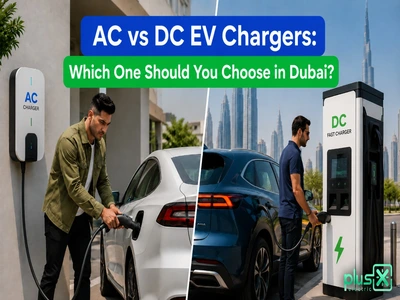
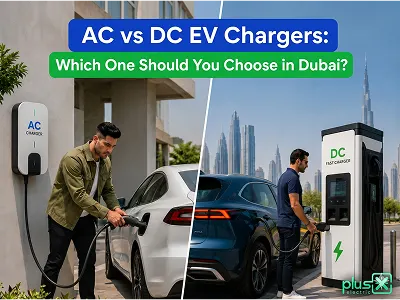
Add new blog

diff --git a/src/data/blogsList/nearest-station.js b/src/data/blogsList/nearest-station.js
@@ -1,0 +1,318 @@
+import portableDesktop  from "@/assets/images/homepage/blogs/banners/plusx_electric_portable_pod_desktop_banner.webp";
+import portableMobile   from "@/assets/images/homepage/blogs/banners/plusx_electric_portable_pod_mobile_banner.webp";
+import blogImage        from "@/assets/images/homepage/blogs/plusxelectric_ev_doorstep.webp";
+
+const BASE_URL              = process.env.NEXT_PUBLIC_BASE_URL;
+export const nearestStation = [
+  {
+    type: "paragraph",
+    text: `Most EV drivers don’t struggle to find a charging station. They struggle to find one that is actually available when they reach.`,
+  },
+  {
+    type: "paragraph",
+    text: `It’s common to head towards a charger that looks nearby on the map, only to find it occupied, slow, or not suitable for your vehicle.`,
+  },
+  {
+    type: "paragraph",
+    text: `The challenge is not location. It is timing, availability, and knowing what to check before you get there.`,
+  },
+  {
+    type: "heading",
+    level: 2,
+    text: "Why the Nearest Charger Is Not Always The Best Option?"
+  },
+  {
+    type: "paragraph",
+    text: "The closest charging station may seem like a practical option. You may drive to the nearby charger only to find it is busy, slow or incompatible with your vehicle."
+  },
+  {
+    type: "paragraph",
+    text: `Another factor is the waiting time in busy areas or during peak hours. You will find that a charger available a little farther away has better speed, which can save you a lot of time.`
+  },
+  {
+    type: "paragraph",
+    text: `So, searching for the <a href="/public-ev-charging-stations" target="_blank">nearest EV charging station in Dubai</a> may not solve your problem.`
+  },
+  {
+    type: "heading",
+    level: 2,
+    text: `What to Check Before Heading to a Charging Station?`,
+  },
+  {
+    type: "paragraph",
+    text: "Look for the following details of a charging station before making your way there."
+  },
+  {
+    type: "heading",
+    level: 3,
+    text: `Charger Type (AC or DC)`,
+  },
+  {
+    type: "paragraph",
+    text: `DC chargers provide faster charging than AC chargers. So, choose the charger based on how much time you can spare for charging.`
+  },
+  {
+    type: "heading",
+    level: 3,
+    text: `Availability`,
+  },
+  {
+    type: "paragraph",
+    text: `A charger is only useful if it is free when you arrive. You can save unwanted trips if you check the live status before going to the charger.`
+  },
+  {
+    type: "heading",
+    level: 3,
+    text: `Charging Capacity`,
+  },
+  {
+    type: "paragraph",
+    text: `Higher capacity chargers are most in demand because they charge your vehicle faster, but they may be limited in number.`
+  },
+  {
+    type: "heading",
+    level: 3,
+    text: `Location Convenience`,
+  },
+  {
+    type: "paragraph",
+    text: `Also, check where the charger is located, whether it is in a mall, office area, or public parking space.`
+  },
+  {
+    type: "heading",
+    level: 3,
+    text: `Pricing`,
+  },
+  {
+    type: "paragraph",
+    text: `The pricing structure is not the same for every charging station.`
+  },
+  {
+    type: "paragraph",
+    text: `You can check these factors to improve your charging experience.`
+  },
+  {
+    type: "heading",
+    level: 2,
+    text: `<a href="/doorstep-ev-charging-in-dubai" target="_blank">Doorstep EV Charging in Dubai: When Is It Better Than Public Charging?</a>`,
+  },
+  {
+    type: "heading",
+    level: 2,
+    text: `Real-World Charging Challenges in Dubai`,
+  },
+  {
+    headerText: `Public charging can be unpredictable in real-world conditions. You may experience the following problems despite the available charger.`,
+    type: "ul",
+    items: [
+      `There can be a waiting period.`,
+      `Charging speed may vary depending on the load.`,
+      `Multiple vehicles may share the same station.`,
+    ],
+    footerText: `These types of conditions are common in Downtown Dubai, Business Bay, and Dubai Marina during peak hours.`
+  },
+  {
+    type: "paragraph",
+    text: `Most drivers end up making multiple stops before they finally find a charger that they can use.`
+  },
+  {
+    type: "heading",
+    level: 2,
+    text: `How the PlusX Electric App Helps`,
+  },
+  {
+    type: "paragraph",
+    text: `The PlusX Electric app is made to make it easier to find the <a href="/public-ev-charging-stations" target="_blank">nearest EV charging station in Dubai</a> with accurate information.`
+  },
+  {
+    headerText: `It can provide you with the following details.`,
+    type: "ul",
+    items: [
+      `View nearby public EV charging stations instantly.`,
+      `See charger type (AC/DC) and capacity.`,
+      `Check real-time availability.`,
+      `Access pricing and operating hours.`,
+      `Get navigation directions to the selected station.`,
+    ],
+    footerText: `You get live updates about the current situations in the charging station so that you can decide whether to go to that station or look for another.`
+  },
+  {
+    type: "heading",
+    level: 2,
+    text: `Public Charging vs Doorstep Backup`
+  },
+  {
+    type: "paragraph",
+    text: "Public charging is an important part of the EV ecosystem, but it may not always be reliable."
+  },
+  {
+    headerText: `<b>Public Charging Works Best When:</b>`,
+    type: "ul",
+    items: [
+      `You are travelling long distances.`,
+      `Chargers are available nearby.`,
+      `You need fast charging.`,
+    ],
+  },
+  {
+    headerText: `<b>Doorstep Charging Works Best When:</b>`,
+    type: "ul",
+    items: [
+      `Public chargers are occupied.`,
+      `You do not want to wait.`,
+      `You need to charge at your location.`,
+      `You want to save time.`,
+    ],
+    footerText: `EV owners in Dubai use both. You can rely on <a href="/mobile-ev-charging-dubai" target="_blank">doorstep charging</a> in case public chargers are not accessible.`
+  },
+  {
+      type: "ctaButton",
+      action: "portablePage",
+      alt: "Doorstep EV Charging in Dubai",
+      desktop: portableDesktop,
+      mobile: portableMobile
+    },
+  {
+    type: "heading",
+    level: 2,
+    text: `Smarter Way to Find EV Chargers in Dubai`
+  },
+  {
+    type: "paragraph",
+    text: "Finding a charger today is less about location and more about access to accurate, real-time information."
+  },
+  {
+    headerText: `Using the right tools allows drivers to:`,
+    type: "ul",
+    items: [
+      `Avoid unnecessary delays.`,
+      `Reduce range anxiety.`,
+      `Improve route planning.`,
+      `Save time and effort.`,
+    ],
+    footerText: `EV owners in Dubai use both. You can rely on doorstep charging in case public chargers are not accessible.`
+  },
+  {
+    type: "heading",
+    level: 2,
+    text: `Conclusion`
+  },
+  {
+    type: "paragraph",
+    text: "As EV adoption increases, simply locating a charger is no longer enough. You will notice that public charging is expanding continuously, but real-time information is necessary to get a seamless experience."
+  },
+  {
+    type: "paragraph",
+    text: "The right tools allow EV drivers to make better decisions. They also avoid common challenges and help you check the conditions before making your way to the station."
+  },
+  {
+    type: "heading",
+    level: 2,
+    text: "FAQ's"
+  },
+  {
+    type: "faq",
+    schema :{
+      "@context"  : "https://schema.org",
+      "@type"     : "FAQPage",
+      mainEntity: [
+        {
+          "@type" : "Question",
+          "name"  : "Which app is best for finding EV chargers in Dubai?",
+          "acceptedAnswer": {
+              "@type" : "Answer",
+              "text"  : "Apps like PlusX Electric provide real-time charger visibility, along with details like availability, charger type, and navigation support in one place."
+          }
+        },
+        {
+          "@type" : "Question",
+          "name"  : "Why do chargers show available but are occupied?",
+          "acceptedAnswer": {
+              "@type" : "Answer",
+              "text"  : "Some platforms do not update in real time, so a charger may be taken by the time you arrive."
+          }
+        },
+        {
+          "@type" : "Question",
+          "name"  : "How do I know if a charger is fast or slow?",
+          "acceptedAnswer": {
+              "@type" : "Answer",
+              "text"  : "Look at the kW rating and check whether it is AC or DC. If you are short of time, DC chargers are faster."
+          }
+        },
+        {
+          "@type" : "Question",
+          "name"  : "Are all EV chargers in Dubai compatible with my car?",
+          "acceptedAnswer": {
+              "@type" : "Answer",
+              "text"  : "Most charging station have Type 2 connectors for AC chargers and CCS2 for DC chargers. However, you can confirm the same from the app before driving there."
+          }
+        },
+        {
+          "@type" : "Question",
+          "name"  : "What should I do if I can’t find a charger nearby?",
+          "acceptedAnswer": {
+              "@type" : "Answer",
+              "text"  : "Find alternative stations from the apps or adjust your route to include available charging points."
+          }
+        }
+      ]
+    }
+  },
+  {
+    type    : "schema",
+    schemas : [
+      {
+        "@context"    : "https://schema.org",
+        "@type"       : "Article",
+
+        "headline"    : "How to Find the Nearest Public EV Charging Station in Dubai",
+        "name"        : "How to Find the Nearest Public EV Charging Station in Dubai | PlusX Electric",
+        "description" : "Looking for the nearest EV charging station in Dubai? Learn how to find available chargers, check compatibility, and avoid delays using smart tools like PlusX Electric.",
+        "image"       : `${BASE_URL}${blogImage.src}`,
+
+        "author"      : {
+          "@type"     : "Person",
+          "name"      : "Admin",
+          "url"       : `${BASE_URL}/`
+        },
+
+        "publisher"   : {
+          "@type"     : "Organization",
+          "name"      : "PlusX Electric",
+          "url"       : `${BASE_URL}/`,
+          "logo"      : {
+            "@type"   : "ImageObject",
+            "url"     : "https://plusxelectric.com/logo-icon.svg"
+          }
+        },
+
+        "datePublished" : "2026-05-21",
+        "dateModified"  : "2026-05-21",
+
+        "mainEntityOfPage" : {
+          "@type"          : "WebPage",
+          "@id"            : `${BASE_URL}/how-to-find-the-nearest-public-ev-charging-station-in-dubai`
+        },
+
+        "inLanguage" : "en",
+
+        "keywords" : [ "nearest EV charging station Dubai", "public EV charger Dubai", "EV charging app Dubai", "Dubai EV charging stations", "find EV charger Dubai", "AC DC charger Dubai", "PlusX Electric app", "EV charging availability Dubai", "doorstep EV charging Dubai", "real time EV charger status" ],
+
+        "articleSection" : [ "Public EV Charging Dubai", "EV Charging Station Finder", "Real-Time Charger Availability", "AC vs DC Charging", "Dubai EV Infrastructure", "Doorstep EV Charging", "EV Charging Challenges", "Smart EV Charging Solutions" ],
+
+        "about" : {
+          "@type" : "Thing",
+          "name"  : "Finding Public EV Charging Stations in Dubai",
+          "description" : "Guide explaining how EV drivers in Dubai can locate available charging stations, compare charger types, and use real-time charging information efficiently."
+        },
+
+        "isPartOf" : {
+          "@type"  : "WebPage",
+          "name"   : "Dubai EV Charging Guide | PlusX Electric",
+          "url"    : `${BASE_URL}/how-to-find-the-nearest-public-ev-charging-station-in-dubai`
+        }
+      }
+    ]
+  }
+];

diff --git a/src/data/testimonials.js b/src/data/testimonials.js
@@ -30,6 +30,7 @@ import PortableEVChar                 from "@/assets/images/homepage/blogs/Plusx
 import EVSolution                     from "@/assets/images/homepage/blogs/plusx_electric_ev_solution_in_dubai.webp";
 import CommonEVCharging               from "@/assets/images/homepage/blogs/plusx_electric_common_ev_charging_in_dubai.webp";
 import ACDCChargers                   from "@/assets/images/homepage/blogs/plusx_electric_ac_dc_chargers_in_dubai.webp";
+import NearestEVCharger               from "@/assets/images/homepage/blogs/plusx_electric_ev_public_charging_station.webp";
  
 //Blog content pages
 import { towingContent }      from "@/data/blogsList/towing";
@@ -63,8 +64,18 @@ import { portableEV }         from "@/data/blogsList/portableEV";
 import { eVSolution }         from "@/data/blogsList/evSolution";
 import { commonEVCharging }   from "@/data/blogsList/commonEVCharging";
 import { ac_dc_chargers }     from "@/data/blogsList/ac-dc-ev-charger";
+import { nearestStation }     from "@/data/blogsList/nearest-station";
  
 export const testimonials = [
+  {
+    slug            : "how-to-find-the-nearest-public-ev-charging-station-in-dubai",
+    title           : "How to Find the Nearest Public EV Charging Station in Dubai",
+    image           : NearestEVCharger,
+    alt             : "Public EV Charging Station in Dubai",
+    metaTitle       : "How to Find the Nearest EV Charging Station in Dubai",
+    metaDescription : "Looking for the nearest EV charging station in Dubai? Learn how to find available chargers, check compatibility, and avoid delays using smart tools like PlusX Electric.",
+    content         : nearestStation,
+  },
   {
     slug            : "ac-vs-dc-ev-chargers",
     title           : "AC vs DC EV Chargers: Which One Should You Choose in Dubai?",

diff --git a/public/sitemap.html b/public/sitemap.html
@@ -87,6 +87,7 @@
       <li><a href="/ev-solutions-in-dubai">EV Solutions in Dubai: The Complete Guide to Charging, Rescue & Insurance</a></li>
       <li><a href="/ev-charging-problems-dubai">Common EV Charging Problems in Dubai and How to Avoid Them</a></li>
       <li><a href="/ac-vs-dc-ev-chargers">AC vs DC EV Chargers: Which One Should You Choose in Dubai?</a></li>
+      <li><a href="/how-to-find-the-nearest-public-ev-charging-station-in-dubai">How to Find the Nearest Public EV Charging Station in Dubai?</a></li>
     </ul>
   </body>
 </html>

diff --git a/src/app/sitemap.js b/src/app/sitemap.js
@@ -319,5 +319,11 @@ export default function sitemap() {
       changeFrequency : "weekly",
       priority        : 0.9,
     },
+    {
+      url             : `${baseUrl}how-to-find-the-nearest-public-ev-charging-station-in-dubai`,
+      lastModified    : new Date(),
+      changeFrequency : "weekly",
+      priority        : 0.9,
+    },
   ];
 }
